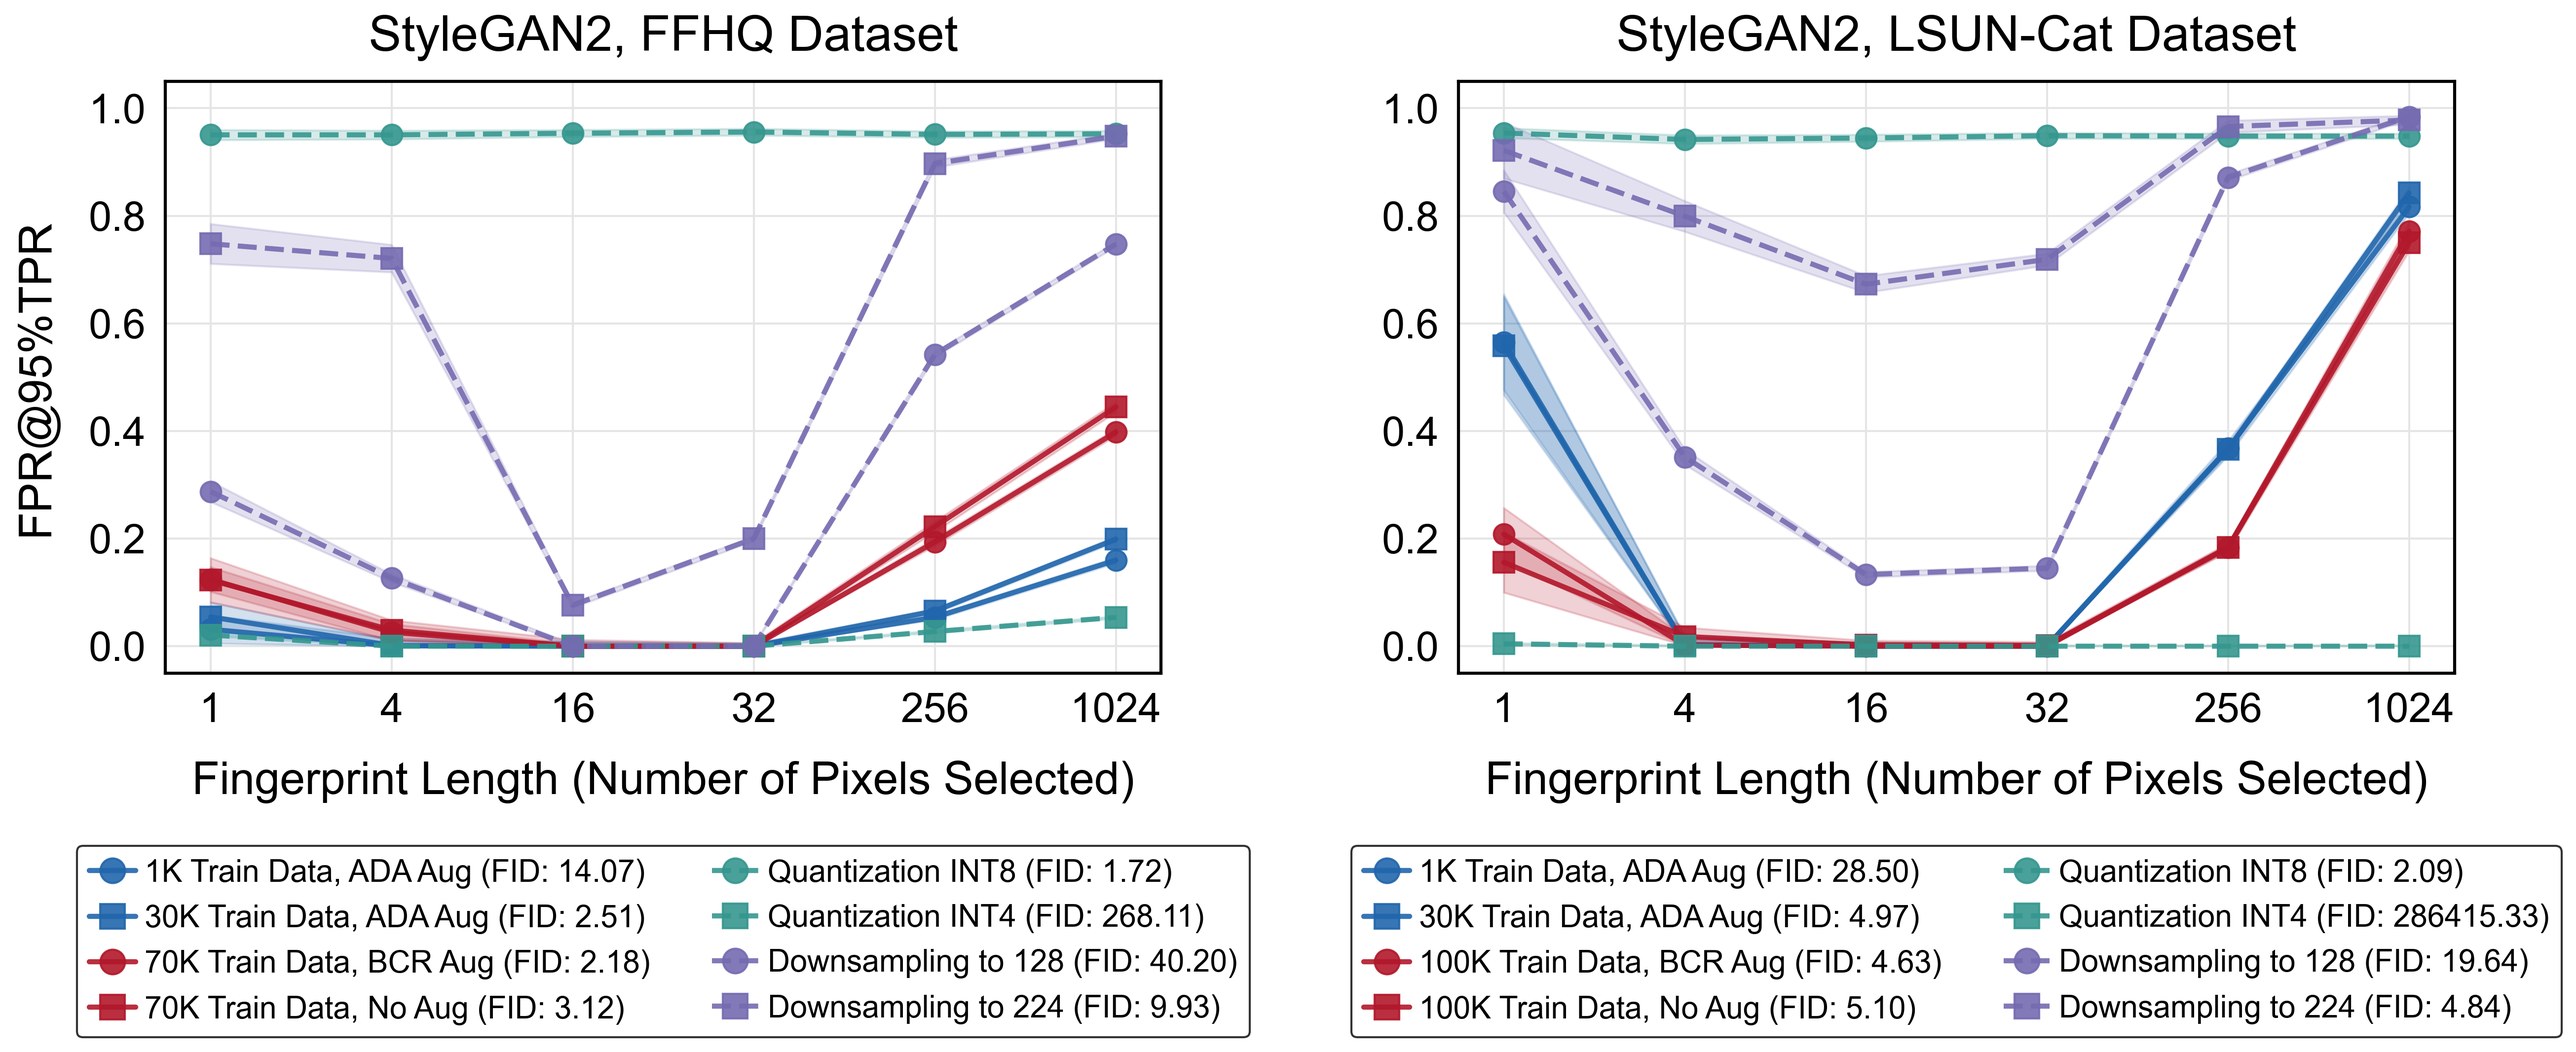
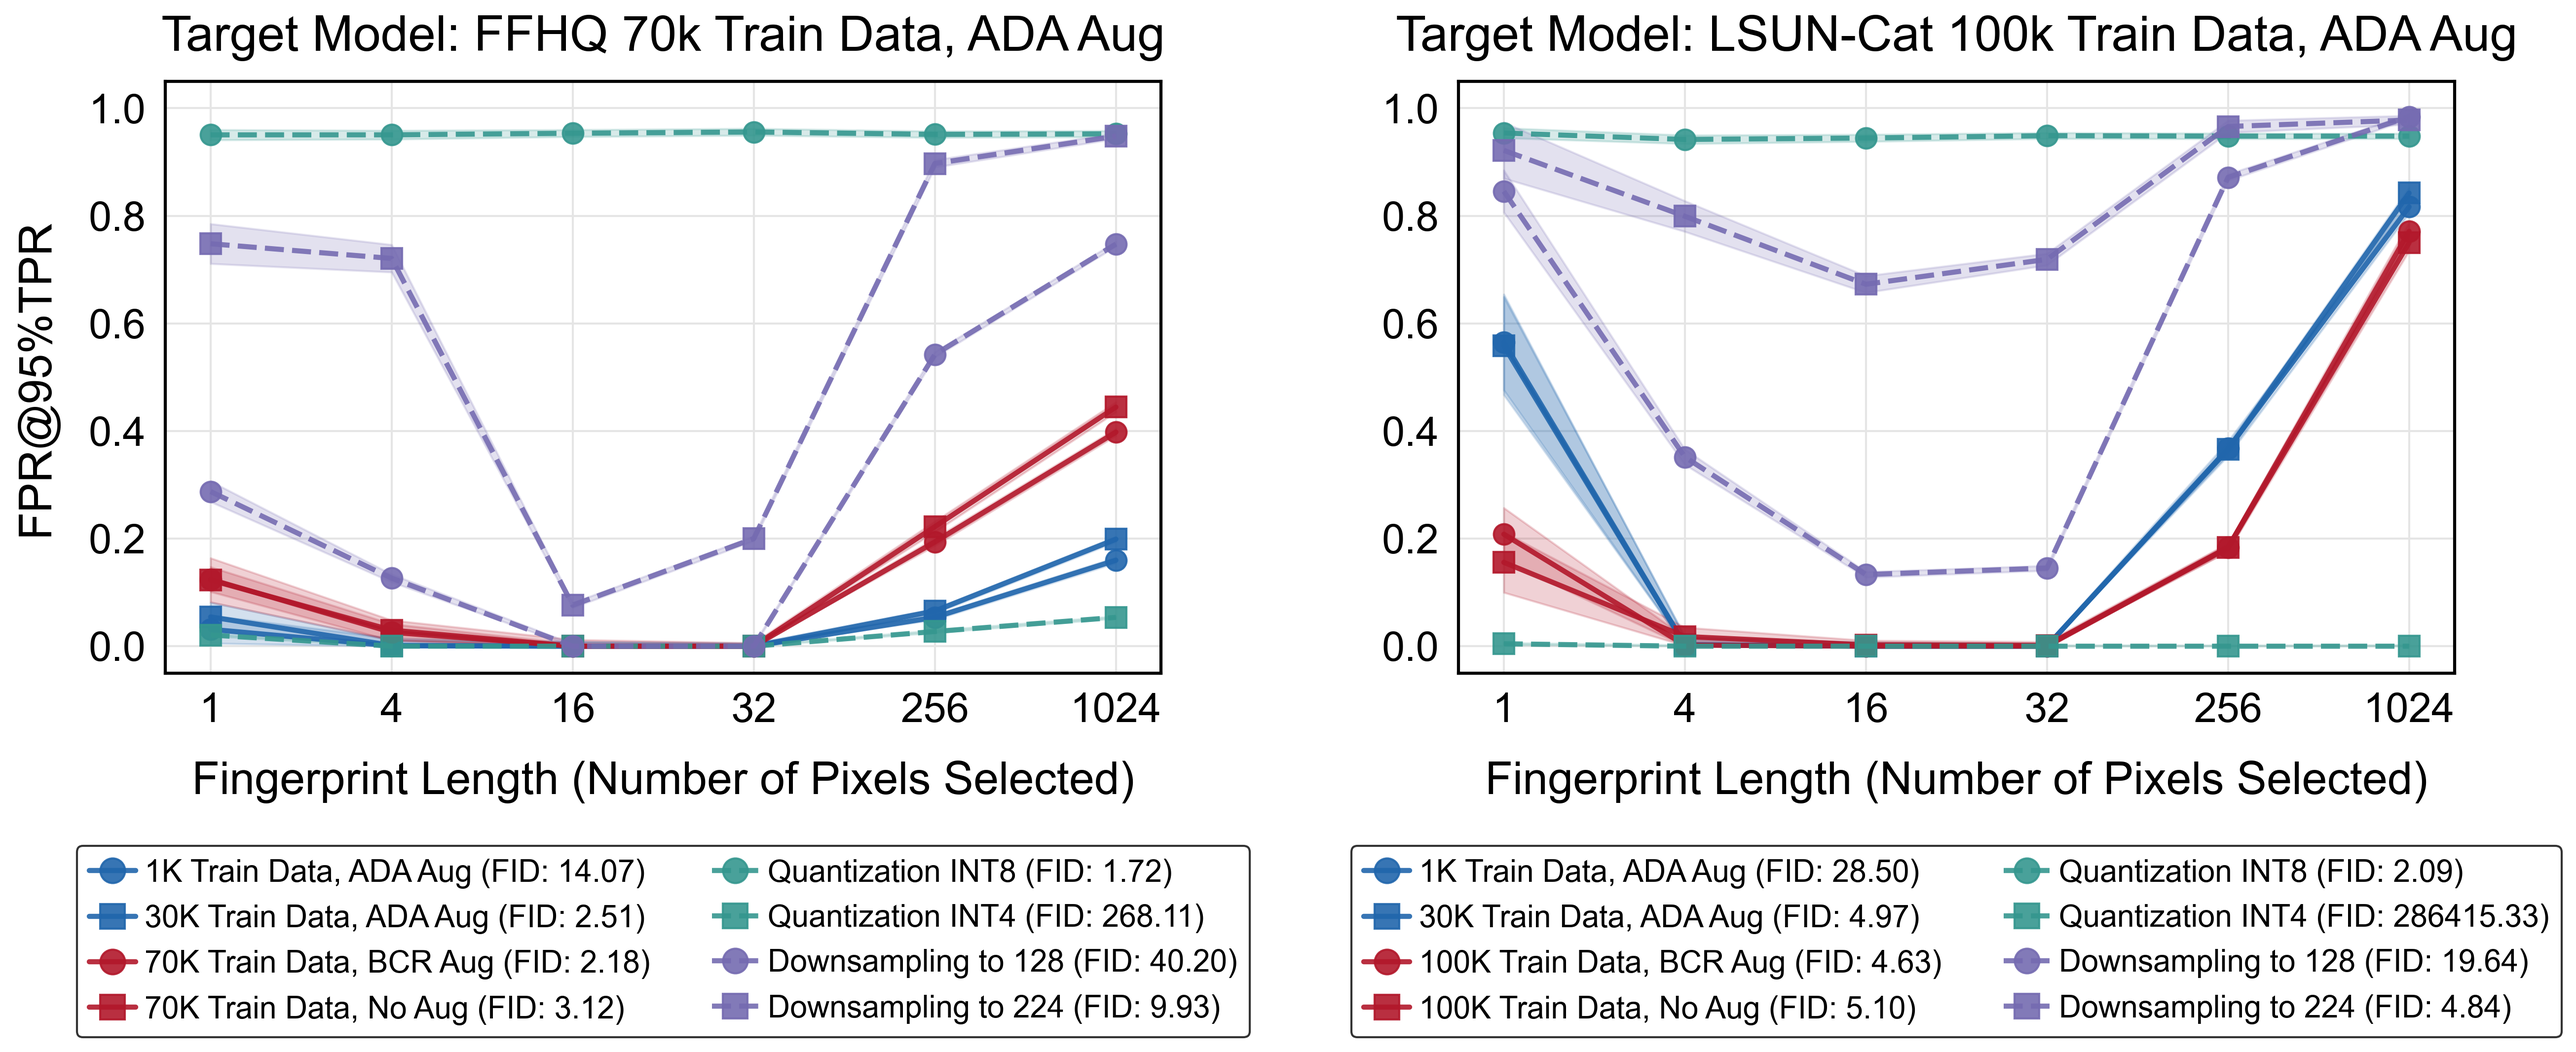
mod

Changed region(s): [[0.5307, 0.0, 0.999, 0.0619], [0.0624, 0.0, 0.4683, 0.0619]]

diff --git a/utils/model_loading.py b/utils/model_loading.py
@@ -41,15 +41,18 @@ STYLEGAN2_MODELS = {
 # Dictionary of pretrained Stable Diffusion models
 STABLE_DIFFUSION_MODELS = {
     # Base models
-    # 'sdxl-1.0': "stabilityai/stable-diffusion-xl-base-1.0",
-    'sd-2.1': "stabilityai/stable-diffusion-2-1-base",
+    'sdxl-1.0': "stabilityai/stable-diffusion-xl-base-1.0",
+    'sd-3-medium': "stabilityai/stable-diffusion-3-medium",
+    'sd-cascade': "stabilityai/stable-cascade",
+    'sdxl-turbo': "stabilityai/sdxl-turbo",
+    # 'sd-2.1': "stabilityai/stable-diffusion-2-1-base",
     # 'sdxl-0.9': "stabilityai/stable-diffusion-xl-base-0.9",
     # 'sd-3.5': "stabilityai/stable-diffusion-3.5-large",
-    'sd-1.5': "sd-legacy/stable-diffusion-v1-5",  # or "runwayml/stable-diffusion-v1-5"
-    'sd-1.4': "CompVis/stable-diffusion-v1-4",
-    'sd-1.3': "CompVis/stable-diffusion-v1-3",
-    'sd-1.2': "CompVis/stable-diffusion-v1-2",
-    'sd-1.1': "CompVis/stable-diffusion-v1-1",
+    # 'sd-1.5': "sd-legacy/stable-diffusion-v1-5",  # or "runwayml/stable-diffusion-v1-5"
+    # 'sd-1.4': "CompVis/stable-diffusion-v1-4",
+    # 'sd-1.3': "CompVis/stable-diffusion-v1-3",
+    # 'sd-1.2': "CompVis/stable-diffusion-v1-2",
+    # 'sd-1.1': "CompVis/stable-diffusion-v1-1",
 }
 
 def load_pretrained_models(

diff --git a/plot_results.py b/plot_results.py
@@ -122,7 +122,7 @@ def create_subplot(ax, methods, fid_scores, fpr_values, dataset_name):
     ax.set_xticklabels(pixels)
     ax.set_xlabel('Fingerprint Length (Number of Pixels Selected)', labelpad=15)
     ax.set_ylabel('FPR@95%TPR', labelpad=15)
-    ax.set_title(f"StyleGAN2, {dataset_name} Dataset", pad=15)
+    ax.set_title(f"Target Model: {dataset_name} 70k Train Data, ADA Aug" if dataset_name == "FFHQ" else f"Target Model: {dataset_name} 100k Train Data, ADA Aug", pad=15)
     ax.set_ylim(-0.05, 1.05)  # Add margins above and below
     
     # Set spines to black
